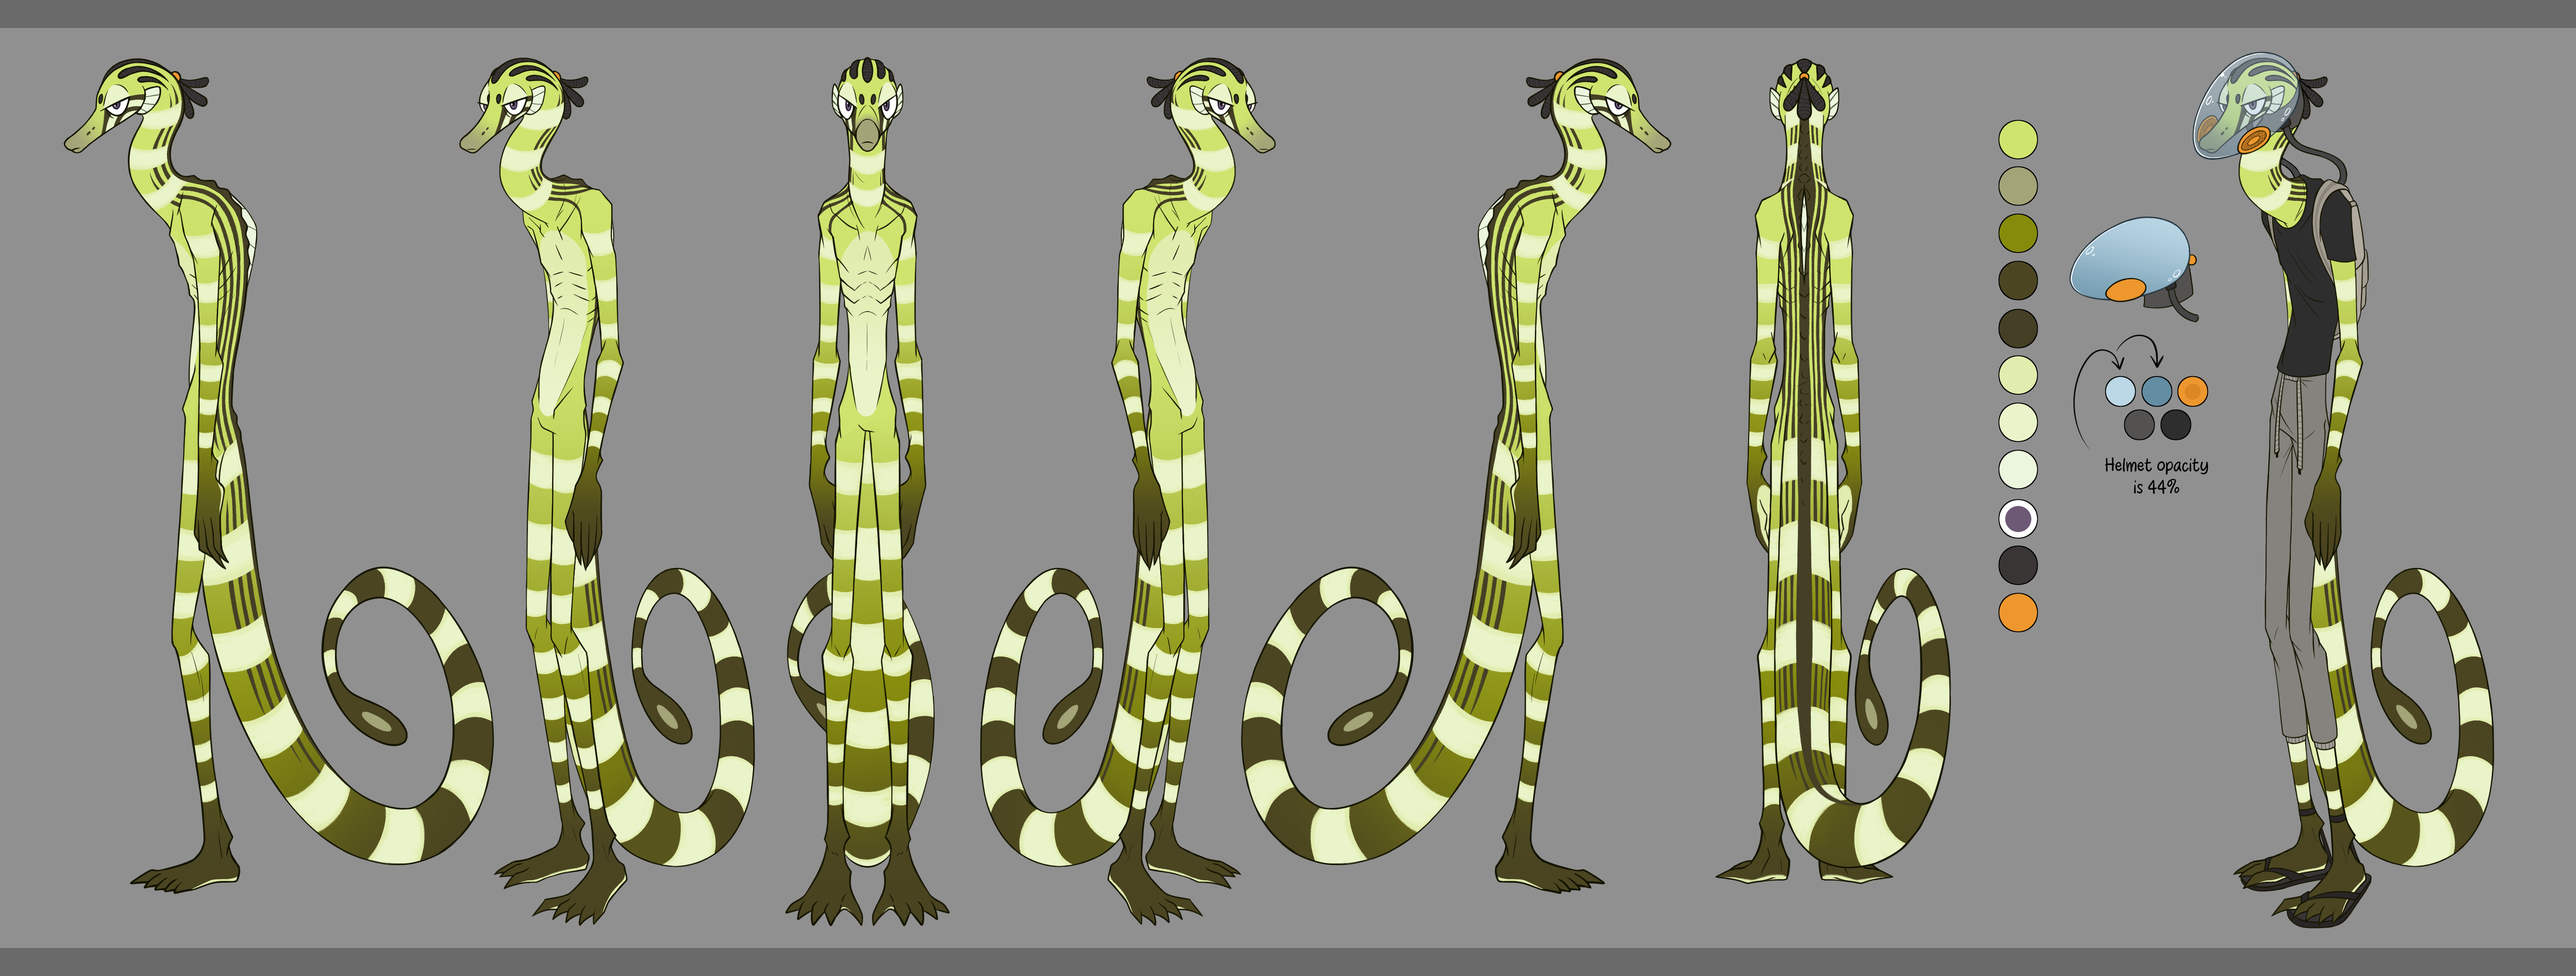
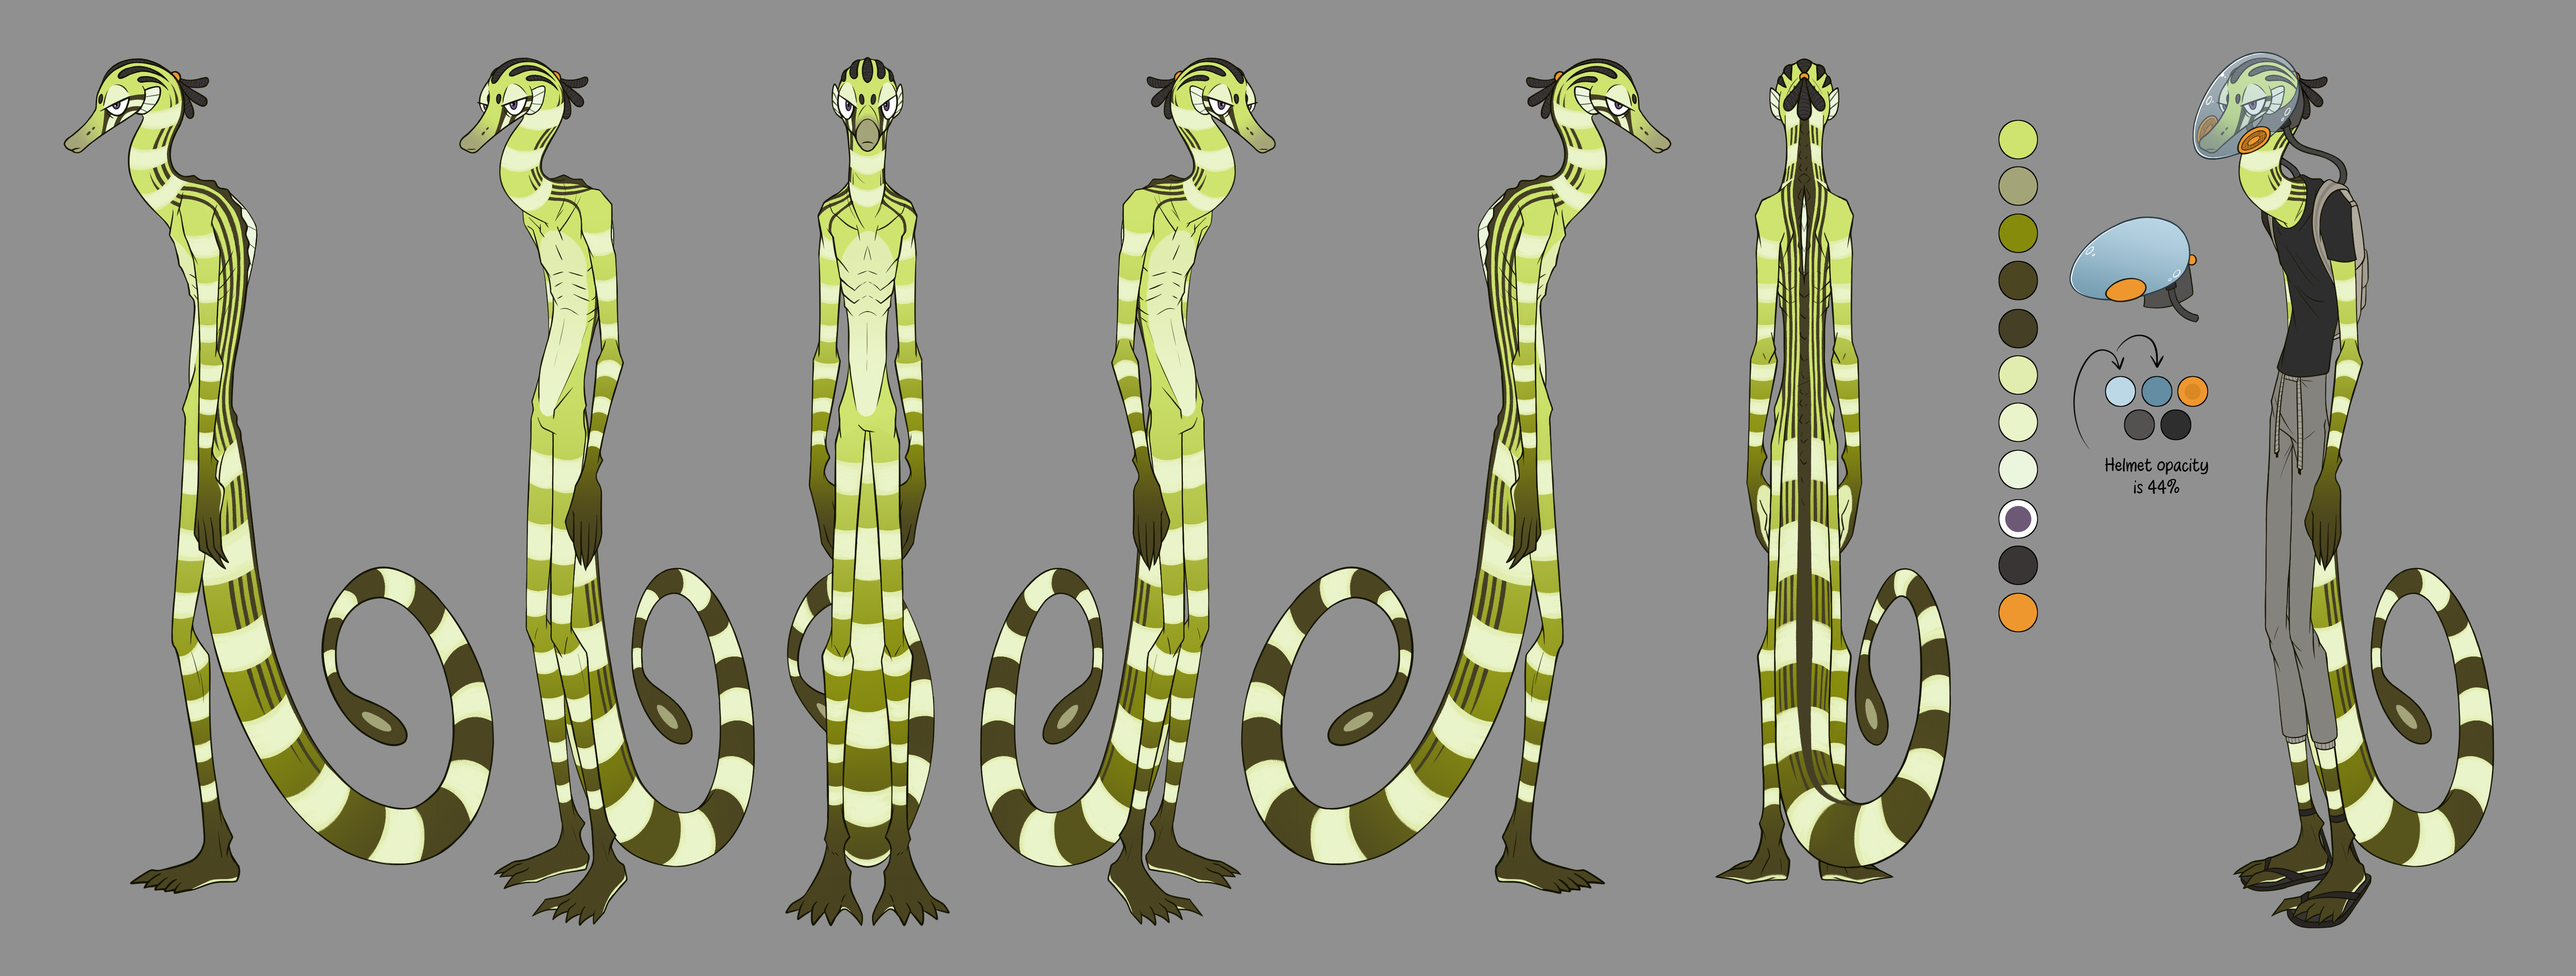
Updates

Changed region(s): [[0.0, 0.9563, 1.0, 1.0], [0.0, 0.0, 1.0, 0.0308]]

diff --git a/character-design.html b/character-design.html
@@ -56,38 +56,38 @@
 
         <section class="gallery-grid">
           <article class="gallery-card">
-            <a href="https://images.unsplash.com/photo-1517849845537-4d257902454a?auto=format&fit=crop&w=1800&q=80" class="lightbox-trigger">
-              <img src="https://images.unsplash.com/photo-1517849845537-4d257902454a?auto=format&fit=crop&w=900&q=80" alt="Character design 1" />
+            <a href="https://github.com/PalmettoPeril/Benji-DeMay-Portfolio/blob/main/Character_Design_Pieces/B_DeMay_Warren.png?raw=true" class="lightbox-trigger">
+              <img src="https://github.com/PalmettoPeril/Benji-DeMay-Portfolio/blob/main/Character_Design_Pieces/B_DeMay_Warren.png?raw=true" alt="Warren: BottomFeeder" />
+            </a>
+          </article>
+
+          <article class="gallery-card ringmaster">
+            <a href="https://github.com/PalmettoPeril/Benji-DeMay-Portfolio/blob/main/Character_Design_Pieces/B_DeMay_Ringmaster.png?raw=true" class="lightbox-trigger">
+              <img src="https://github.com/PalmettoPeril/Benji-DeMay-Portfolio/blob/main/Character_Design_Pieces/B_DeMay_Ringmaster.png?raw=true" alt="The Ringmaster: BottomFeeder" />
             </a>
           </article>
 
           <article class="gallery-card">
-            <a href="https://images.unsplash.com/photo-1521119989659-a83eee488004?auto=format&fit=crop&w=1800&q=80" class="lightbox-trigger">
-              <img src="https://images.unsplash.com/photo-1521119989659-a83eee488004?auto=format&fit=crop&w=900&q=80" alt="Character design 2" />
+            <a href="https://github.com/PalmettoPeril/Benji-DeMay-Portfolio/blob/main/Character_Design_Pieces/B_DeMay_Isopod.png?raw=true" class="lightbox-trigger">
+              <img src="https://github.com/PalmettoPeril/Benji-DeMay-Portfolio/blob/main/Character_Design_Pieces/B_DeMay_Isopod.png?raw=true" alt="Pearl, the Brass Isopod: BottomFeeder" />
             </a>
           </article>
 
           <article class="gallery-card">
-            <a href="https://images.unsplash.com/photo-1544005313-94ddf0286df2?auto=format&fit=crop&w=1800&q=80" class="lightbox-trigger">
-              <img src="https://images.unsplash.com/photo-1544005313-94ddf0286df2?auto=format&fit=crop&w=900&q=80" alt="Character design 3" />
+            <a href="https://github.com/PalmettoPeril/Benji-DeMay-Portfolio/blob/main/Character_Design_Pieces/Pipefish_turnaround.png?raw=true" class="lightbox-trigger">
+              <img src="https://github.com/PalmettoPeril/Benji-DeMay-Portfolio/blob/main/Character_Design_Pieces/Pipefish_turnaround.png?raw=true" alt="Messmate Pipefish" />
             </a>
           </article>
 
           <article class="gallery-card">
-            <a href="https://images.unsplash.com/photo-1524504388940-b1c1722653e1?auto=format&fit=crop&w=1800&q=80" class="lightbox-trigger">
-              <img src="https://images.unsplash.com/photo-1524504388940-b1c1722653e1?auto=format&fit=crop&w=900&q=80" alt="Character design 4" />
+            <a href="https://github.com/PalmettoPeril/Benji-DeMay-Portfolio/blob/main/Character_Design_Pieces/hallucigenia_turnaround.png?raw=true" class="lightbox-trigger">
+              <img src="https://github.com/PalmettoPeril/Benji-DeMay-Portfolio/blob/main/Character_Design_Pieces/hallucigenia_turnaround.png?raw=true" alt="Hallucigenia" />
             </a>
           </article>
 
           <article class="gallery-card">
-            <a href="https://images.unsplash.com/photo-1517841905240-472988babdf9?auto=format&fit=crop&w=1800&q=80" class="lightbox-trigger">
-              <img src="https://images.unsplash.com/photo-1517841905240-472988babdf9?auto=format&fit=crop&w=900&q=80" alt="Character design 5" />
-            </a>
-          </article>
-
-          <article class="gallery-card">
-            <a href="https://images.unsplash.com/photo-1504593811423-6dd665756598?auto=format&fit=crop&w=1800&q=80" class="lightbox-trigger">
-              <img src="https://images.unsplash.com/photo-1504593811423-6dd665756598?auto=format&fit=crop&w=900&q=80" alt="Character design 6" />
+            <a href="https://github.com/PalmettoPeril/Benji-DeMay-Portfolio/blob/main/Character_Design_Pieces/kappa_turnaround.png?raw=true" class="lightbox-trigger">
+              <img src="https://github.com/PalmettoPeril/Benji-DeMay-Portfolio/blob/main/Character_Design_Pieces/kappa_turnaround.png?raw=true" alt="Kappa" />
             </a>
           </article>
         </section>

diff --git a/styles.css b/styles.css
@@ -454,6 +454,10 @@ button {
   box-shadow: var(--card-shadow);
 }
 
+.gallery-card.ringmaster img {
+  object-position: top center;
+}
+
 .gallery-card img {
   width: 100%;
   height: 280px;
